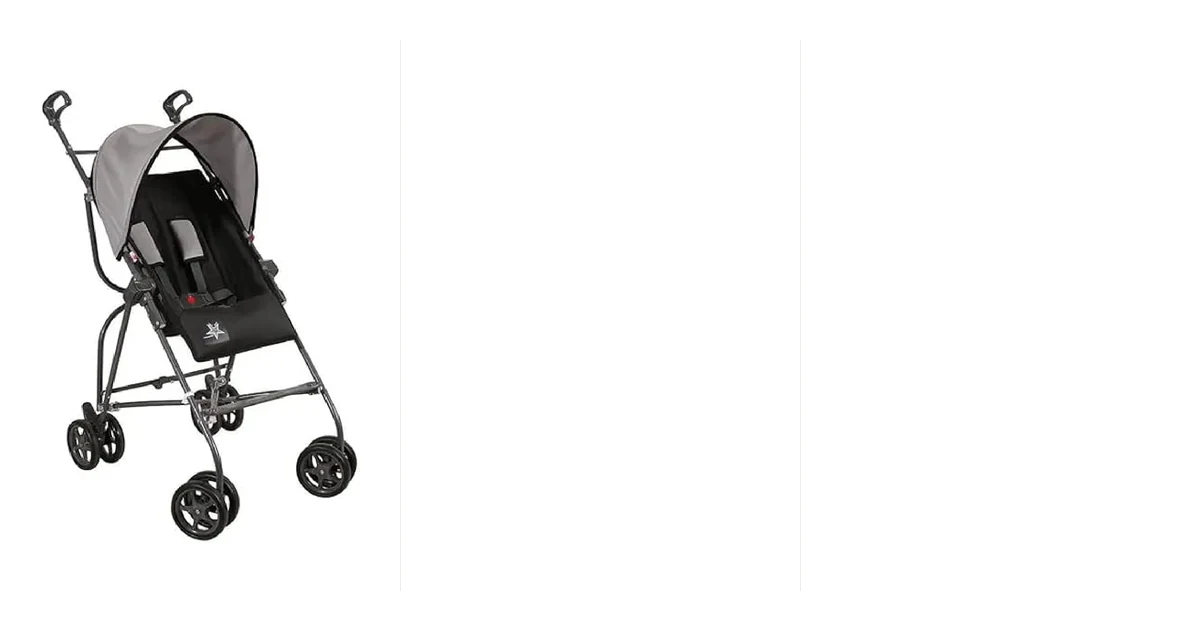
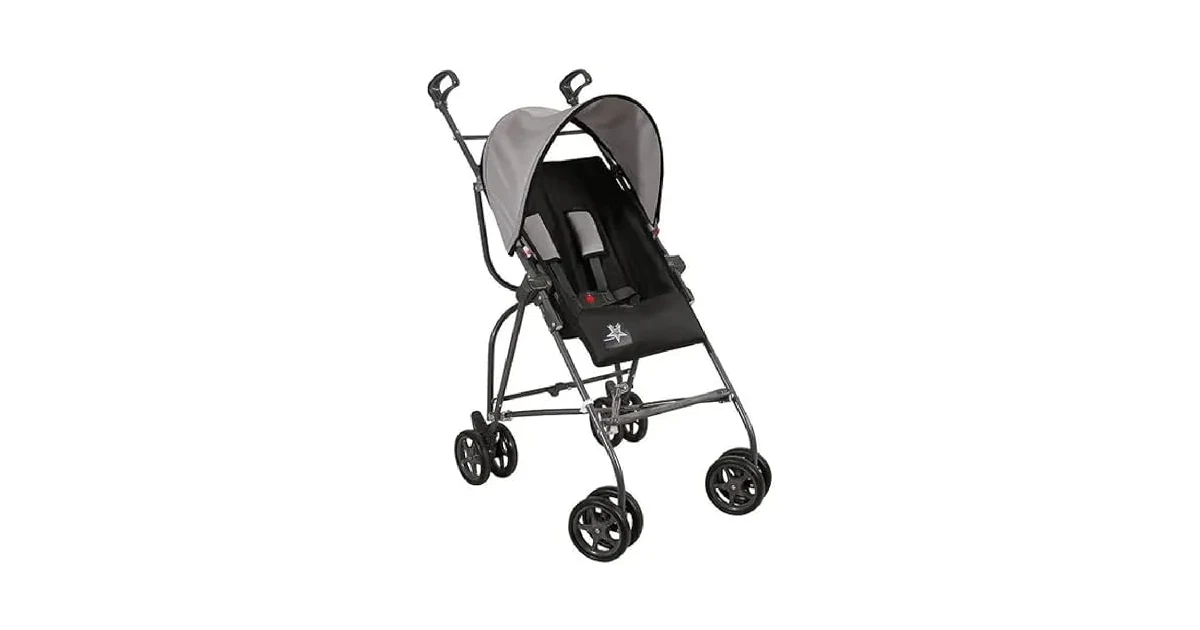
Atualiza gerar-thumbnail.py: review = imagem centralizada, roundup = 3 colunas
Script detecta seoSchema do frontmatter automaticamente e aplica o
layout correto sem intervenção manual.

Changed region(s): [[0.3392, 0.0905, 0.6475, 0.9048], [0.0308, 0.1508, 0.2775, 0.8746], [0.2467, 0.6635, 0.3083, 0.8143]]

diff --git a/gerar-thumbnail.py b/gerar-thumbnail.py
@@ -1,9 +1,12 @@
 """
 gerar-thumbnail.py
-Gera a capa 1200x630 de um artigo roundup pegando as 3 primeiras imagens do roundup.
+Gera a capa 1200x630 de um artigo, detectando o tipo automaticamente:
+  - articleItemList (roundup): 3 produtos em colunas iguais
+  - blogPosting    (review):   1 produto centralizado e grande
 
 Uso:
     python gerar-thumbnail.py melhor-canguru-para-bebe          # gera .webp (padrao)
+    python gerar-thumbnail.py carrinho-capri-galzerano-e-bom    # detecta review
     python gerar-thumbnail.py melhor-canguru-para-bebe --jpg    # gera .jpg
 """
 
@@ -32,44 +35,44 @@ HEADERS = {
     )
 }
 
-# ── Funções ─────────────────────────────────────────────────────────────────
+# ── Leitura do artigo ────────────────────────────────────────────────────────
 
-def get_slug():
-    if len(sys.argv) < 2:
-        print("Uso: python gerar-thumbnail.py <slug>")
-        print("Ex:  python gerar-thumbnail.py melhor-canguru-para-bebe")
-        sys.exit(1)
-    return sys.argv[1].strip()
-
-
-def extract_image_ids(slug):
-    """Lê o .md do artigo e retorna os 3 primeiros IMAGE_IDs do roundup."""
+def read_article(slug):
     path = os.path.join(POSTS_DIR, slug + ".md")
     if not os.path.exists(path):
         print(f"Arquivo não encontrado: {path}")
         sys.exit(1)
-
     with open(path, "r", encoding="utf-8") as f:
-        content = f.read()
+        return f.read()
 
-    # Pega só a seção do roundup (antes do primeiro H2 de produto)
+
+def get_seo_schema(content):
+    """Lê seoSchema do frontmatter. Retorna 'blogPosting' como padrão."""
+    match = re.search(r'^seoSchema:\s*(\S+)', content, re.MULTILINE)
+    return match.group(1).strip() if match else "blogPosting"
+
+
+def extract_image_ids(content, max_count=3):
+    """Retorna os primeiros IMAGE_IDs do Amazon CDN encontrados no artigo."""
+    # Tenta pegar primeiro da seção do roundup (antes do primeiro H2 de produto)
     roundup_section = content.split("<h2>")[0] if "<h2>" in content else content
 
     pattern = re.compile(
-        r'https://m\.media-amazon\.com/images/I/([A-Za-z0-9+_%-]+)\._AC_SL300_\.jpg'
+        r'https://m\.media-amazon\.com/images/I/([A-Za-z0-9+_%\-]+)\._AC_SL300_\.jpg'
     )
     ids = pattern.findall(roundup_section)
 
-    if len(ids) < 3:
-        # Fallback: pega de qualquer parte do artigo
+    if len(ids) < max_count:
         ids = pattern.findall(content)
 
     ids = list(dict.fromkeys(ids))  # deduplica mantendo ordem
-    if len(ids) < 3:
+
+    if len(ids) < max_count:
         print(f"Atenção: encontrei apenas {len(ids)} imagem(ns) no artigo.")
 
-    return ids[:3]
+    return ids[:max_count]
 
+# ── Download ─────────────────────────────────────────────────────────────────
 
 def fetch_image(image_id, retries=3):
     """Baixa imagem do Amazon CDN em resolução alta."""
@@ -90,39 +93,56 @@ def fetch_image(image_id, retries=3):
                     print(f"  ERRO {image_id} ({size}): {e}")
     return None
 
+# ── Layouts ──────────────────────────────────────────────────────────────────
 
-def build_thumbnail(images):
-    """Monta o canvas 1200x630 com 3 imagens em colunas iguais."""
+def build_roundup_thumbnail(images):
+    """3 produtos em colunas iguais (roundup/articleItemList)."""
     canvas = Image.new("RGB", (W, H), BG_COLOR)
     draw   = ImageDraw.Draw(canvas)
 
-    COL_W   = W // 3        # 400px por coluna
-    PADDING = 40             # margem interna
-    IMG_MAX = COL_W - PADDING * 2   # 320px max por imagem
+    COL_W   = W // 3
+    PADDING = 40
+    IMG_MAX = COL_W - PADDING * 2
 
     for idx, prod in enumerate(images):
         if prod is None:
             continue
-
-        # Redimensiona mantendo proporção
         prod.thumbnail((IMG_MAX, H - PADDING * 2), Image.LANCZOS)
-
-        # Centraliza na coluna
         cx = idx * COL_W + (COL_W - prod.width) // 2
         cy = (H - prod.height) // 2
-
-        # Composição sobre fundo branco (remove transparência)
         bg = Image.new("RGB", prod.size, BG_COLOR)
         bg.paste(prod, mask=prod.split()[3])
         canvas.paste(bg, (cx, cy))
 
-    # Divisores verticais sutis
     for i in [1, 2]:
         x = i * COL_W
         draw.line([(x, 40), (x, H - 40)], fill=DIVIDER, width=1)
 
     return canvas
 
+
+def build_review_thumbnail(image):
+    """1 produto centralizado e grande (review/blogPosting)."""
+    canvas = Image.new("RGB", (W, H), BG_COLOR)
+
+    if image is None:
+        return canvas
+
+    # Imagem pode ocupar até 80% da altura e 55% da largura
+    max_w = int(W * 0.55)
+    max_h = int(H * 0.82)
+    image.thumbnail((max_w, max_h), Image.LANCZOS)
+
+    cx = (W - image.width) // 2
+    cy = (H - image.height) // 2
+
+    bg = Image.new("RGB", image.size, BG_COLOR)
+    bg.paste(image, mask=image.split()[3])
+    canvas.paste(bg, (cx, cy))
+
+    return canvas
+
+# ── Salvar ───────────────────────────────────────────────────────────────────
 
 def save(canvas, slug, use_webp=True):
     os.makedirs(OUTPUT_DIR, exist_ok=True)
@@ -136,27 +156,36 @@ def save(canvas, slug, use_webp=True):
     print(f"\nSalvo: {out}  ({size_kb} KB)")
     return out
 
-
 # ── Main ─────────────────────────────────────────────────────────────────────
 
 def main():
-    slug     = get_slug()
+    if len(sys.argv) < 2:
+        print("Uso: python gerar-thumbnail.py <slug> [--jpg]")
+        sys.exit(1)
+
+    slug     = sys.argv[1].strip()
     use_webp = "--jpg" not in sys.argv
 
     print(f"Gerando thumbnail para: {slug}  (formato: {'webp' if use_webp else 'jpg'})")
 
-    print("Extraindo IMAGE_IDs do artigo...")
-    ids = extract_image_ids(slug)
-    print(f"  Encontrados: {ids}")
+    content = read_article(slug)
+    schema  = get_seo_schema(content)
+    print(f"  Tipo detectado: {schema}")
 
-    print("Baixando imagens...")
-    images = [fetch_image(img_id) for img_id in ids]
-
-    while len(images) < 3:
-        images.append(None)
-
-    print("Montando canvas...")
-    canvas = build_thumbnail(images)
+    if schema == "blogPosting":
+        print("  Layout: review (produto único centralizado)")
+        ids = extract_image_ids(content, max_count=1)
+        print(f"  IMAGE_ID: {ids}")
+        image = fetch_image(ids[0]) if ids else None
+        canvas = build_review_thumbnail(image)
+    else:
+        print("  Layout: roundup (3 colunas)")
+        ids = extract_image_ids(content, max_count=3)
+        print(f"  IMAGE_IDs: {ids}")
+        images = [fetch_image(img_id) for img_id in ids]
+        while len(images) < 3:
+            images.append(None)
+        canvas = build_roundup_thumbnail(images)
 
     save(canvas, slug, use_webp=use_webp)
 